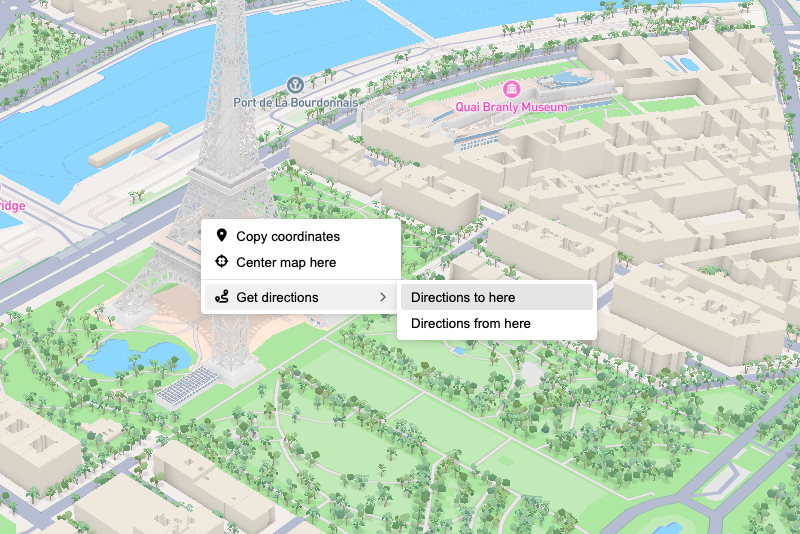
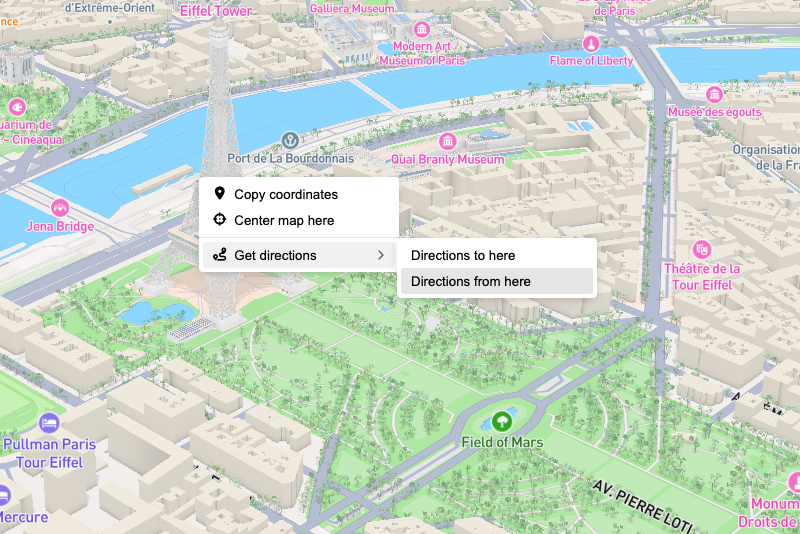
Reduce submenu overlap

diff --git a/src/components/ContextMenuSubmenu/ContextMenuSubmenu.ts b/src/components/ContextMenuSubmenu/ContextMenuSubmenu.ts
@@ -8,7 +8,7 @@ import itemStyles from "../ContextMenuItem/ContextMenuItem.module.scss";
 import chevronSvg from "../../icons/chevron-right.svg?raw";
 
 /** Horizontal overlap between submenu and parent menu item (in pixels) */
-const SUBMENU_OVERLAP = 4;
+const SUBMENU_OVERLAP = 2;
 
 /**
  * Configuration options for creating a context menu submenu.
